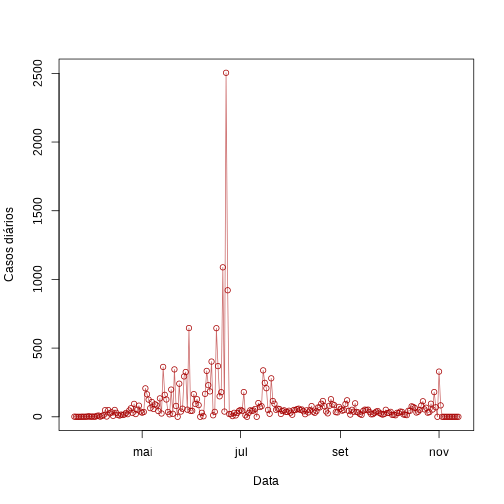
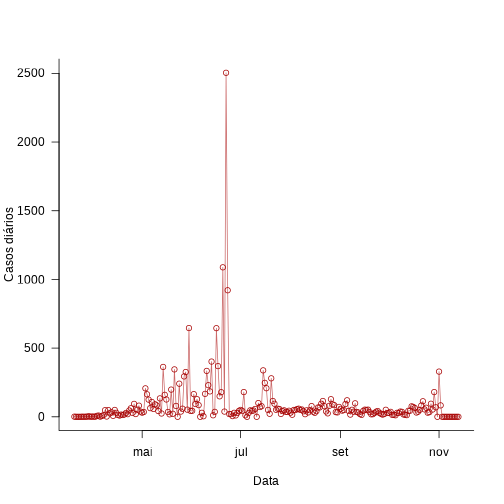
now graphic in log

diff --git a/index.html b/index.html
@@ -4888,7 +4888,8 @@ plot(new_confirmed ~ date, data = macapa,
      xlab = "Data",
      ylab = "Casos diários", 
      col = vermelho_trans, # muda cor
-     pch = 19) # muda tipo de ponto
+     pch = 19,# muda tipo de ponto
+     log = "y") # escala log no eixo y
 lines(new_confirmed ~ date, data = macapa, 
       col = vermelho_trans)
 ```
@@ -4905,14 +4906,15 @@ lines(new_confirmed ~ date, data = macapa,
 
 ```r
 png("figs/casos_diarios_Macapa.png", res = 300,
-    width = 1200, height = 1200)
+    width = 1500, height = 1200)
 par(bty = "l", las = 1)
 # adicionando nome dos eixos
 plot(new_confirmed ~ date, data = macapa,
      xlab = "Data",
      ylab = "Casos diários", 
      col = vermelho_trans, # muda cor
-     pch = 19) # muda tipo de ponto
+     pch = 19,# muda tipo de ponto
+     log = "y") # escala log no eixo y
 lines(new_confirmed ~ date, data = macapa, 
       col = vermelho_trans)
 dev.off()
